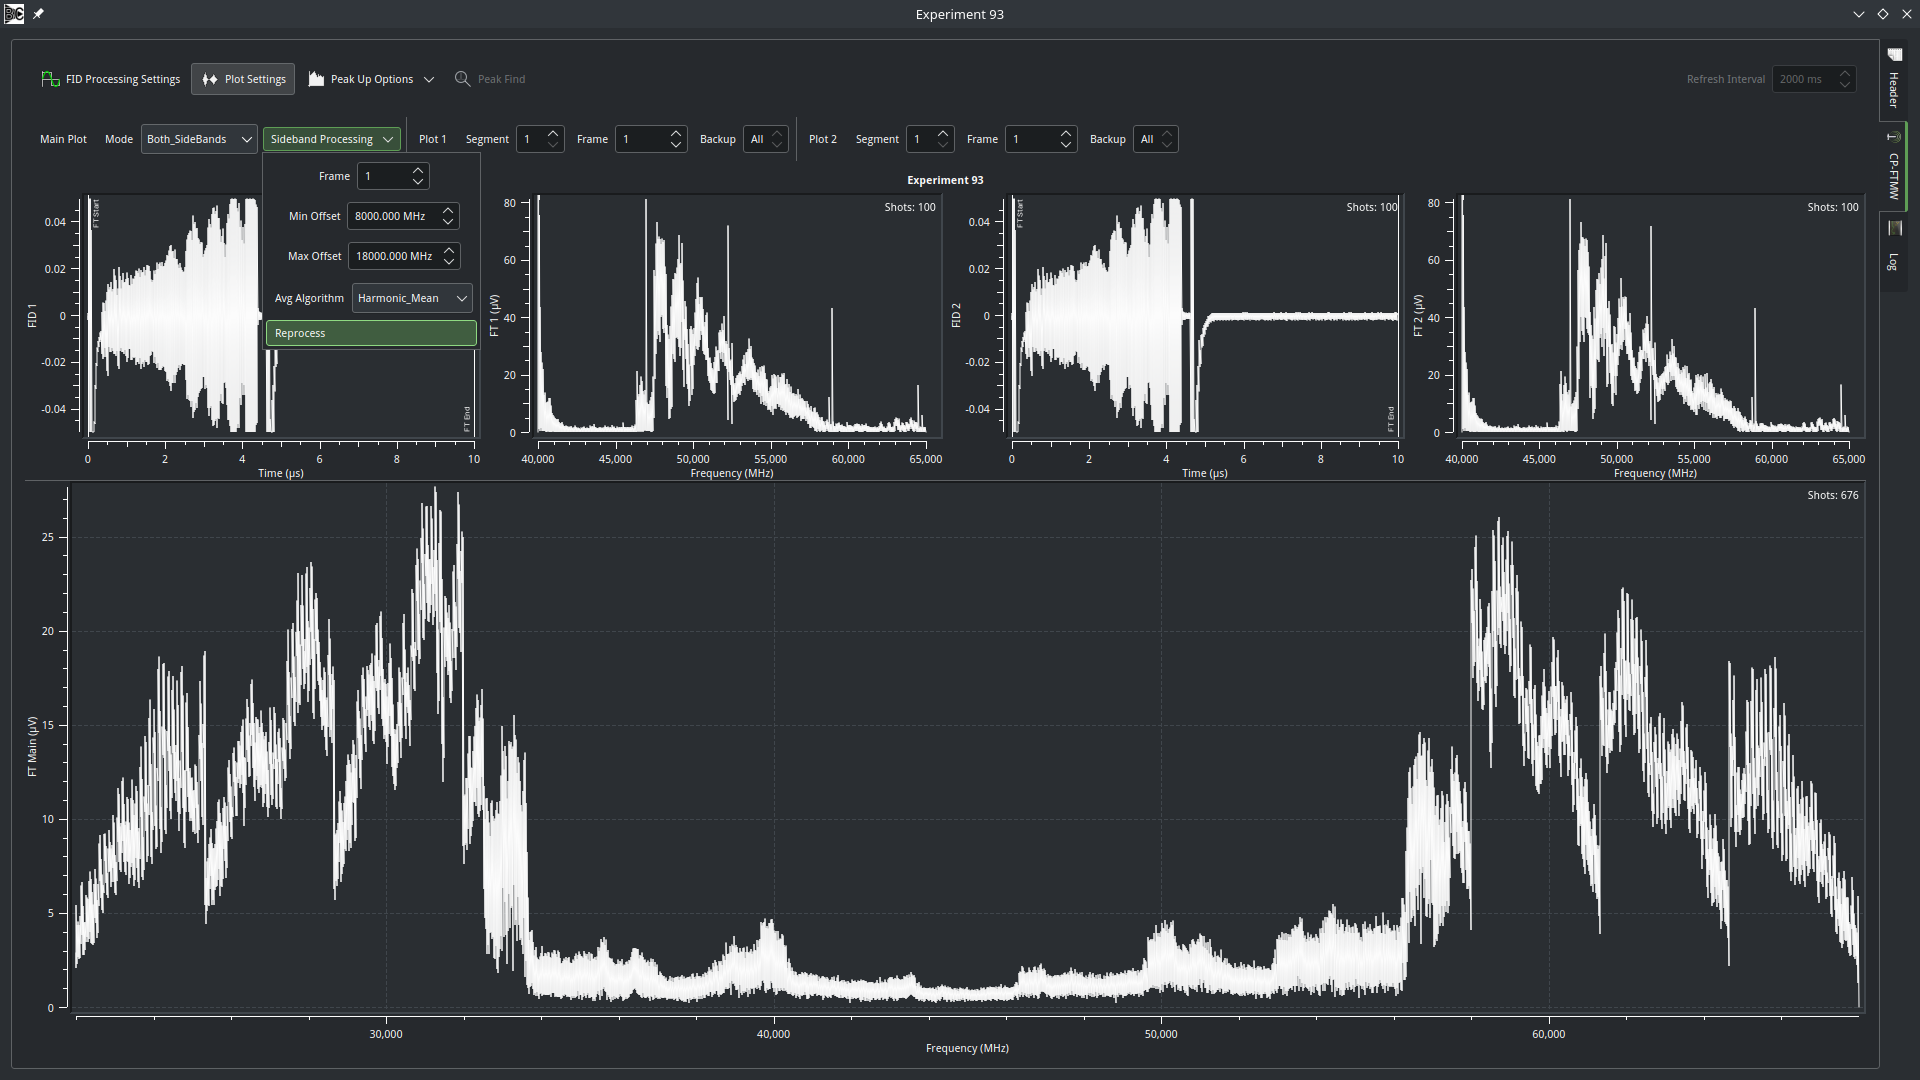
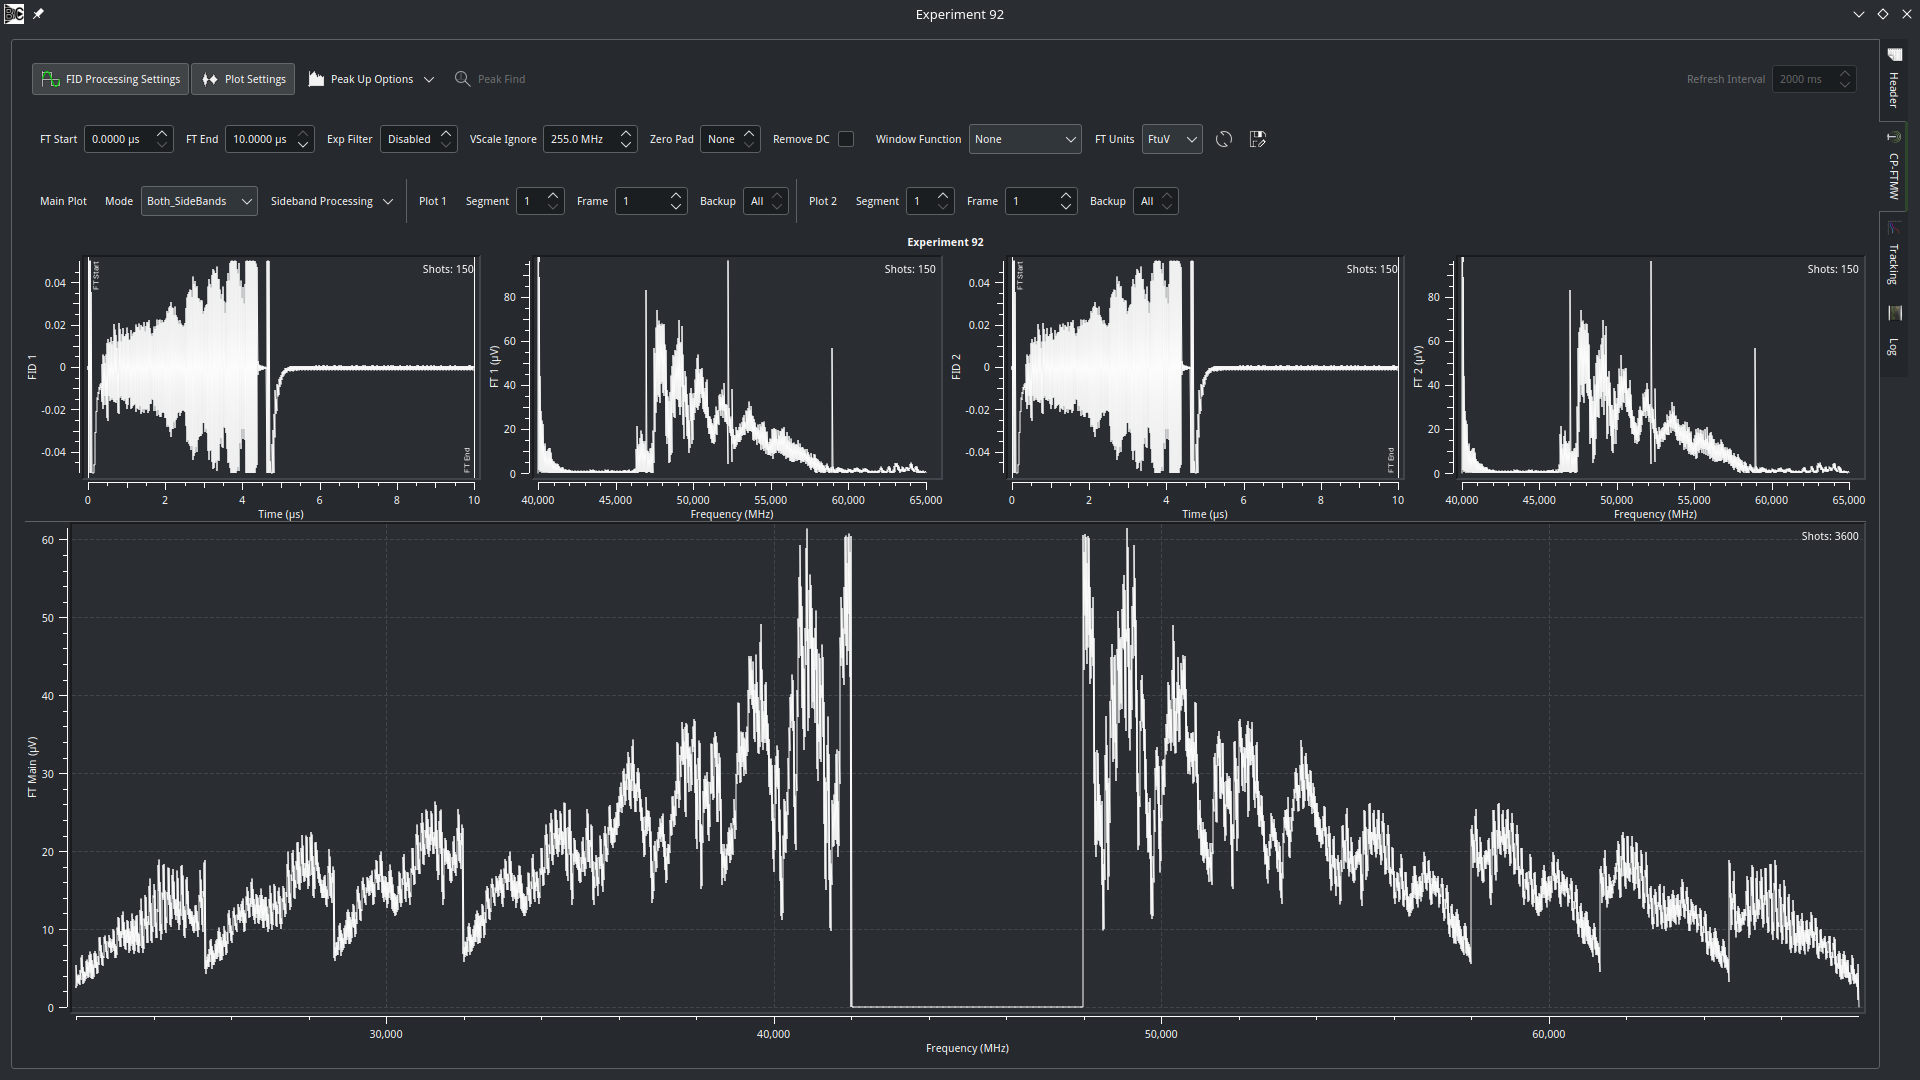
Fix bug in double sideband processing

diff --git a/src/data/analysis/ftworker.cpp b/src/data/analysis/ftworker.cpp
@@ -285,58 +285,76 @@ void FtWorker::processSideband2(const FtWorker::SidebandProcessingData &d, const
                 fid.setSideband(d.sideband);
         }
 
-        auto ft = doFT(fl,settings,d.frame,-1,d.doubleSideband);
+        std::vector<Ft> ftList;
+        auto ft1 = doFT(fl,settings,d.frame,-1,d.doubleSideband);
         auto pf = fl.constFirst().probeFreq();
         if(d.doubleSideband)
-            ft.trim(pf-d.maxOffset,pf+d.maxOffset);
-        else if(d.sideband == RfConfig::UpperSideband)
-            ft.trim(pf+d.minOffset,pf+d.maxOffset);
-        else
-            ft.trim(pf-d.maxOffset,pf-d.minOffset);
-
-
-        auto index = d_loScanData.indexOf(ft.minFreqMHz());
-        auto xx = d_loScanData.relDistance(ft.xAt(0));
-        for(uint i=0; i<(uint)ft.size() && i+index < d_loScanData.ftPoints; i++)
         {
-            //linear interpolation onto total grid, averaging in 0 for outermost points.
-            double yint = ft.at(i);
-            if(xx > 0.0)
-            {
-                if(i == 0)
-                    yint = xx*ft.at(i);
-                else if(i+1 == (uint)ft.size())
-                    yint = ft.at(i)*(1-xx);
-                else
-                    yint = ft.at(i) + (ft.at(i+1)-ft.at(i))*xx;
-            }
-
-            //do average
-            if(d_loScanData.counts.at(i+index) == 0)
-            {
-                d_loScanData.ftData[i+index] = yint;
-                d_loScanData.counts[i+index] = ft.shots();
-            }
-            else
-            {
-                auto s1 = d_loScanData.counts.at(i+index);
-                auto y1 = d_loScanData.ftData.at(i+index);
-                auto s2 = ft.shots();
-                switch(d.dcMethod)
-                {
-                case Harmonic_Mean:
-                    d_loScanData.ftData[i+index] = (s1+s2)/(s1/y1+s2/yint);
-                    break;
-                case Geometric_Mean:
-                    d_loScanData.ftData[i+index] = exp((s1*log(y1) + s2*log(yint))/(s1+s2));
-                    break;
-                }
-
-                d_loScanData.counts[i+index] += s2;
-            }
+            auto ft2 = ft1;
+            ft1.trim(pf-d.maxOffset,pf-d.minOffset);
+            ft2.trim(pf+d.minOffset,pf+d.maxOffset);
+            ftList.push_back(ft1);
+            ftList.push_back(ft2);
+        }
+        else if(d.sideband == RfConfig::UpperSideband)
+        {
+            ft1.trim(pf+d.minOffset,pf+d.maxOffset);
+            ftList.push_back(ft1);
+        }
+        else
+        {
+            ft1.trim(pf-d.maxOffset,pf-d.minOffset);
+            ftList.push_back(ft1);
         }
 
-        d_loScanData.totalShots += ft.shots();
+
+        for(auto const &ft : ftList)
+        {
+            auto index = d_loScanData.indexOf(ft.minFreqMHz());
+            auto xx = d_loScanData.relDistance(ft.xAt(0));
+
+            for(uint i=0; i<(uint)ft.size() && i+index < d_loScanData.ftPoints; i++)
+            {
+                //linear interpolation onto total grid, averaging in 0 for outermost points.
+                double yint = ft.at(i);
+                if(xx > 0.0)
+                {
+                    if(i == 0)
+                        yint = xx*ft.at(i);
+                    else if(i+1 == (uint)ft.size())
+                        yint = ft.at(i)*(1-xx);
+                    else
+                        yint = ft.at(i) + (ft.at(i+1)-ft.at(i))*xx;
+                }
+
+                //do average
+                if(d_loScanData.counts.at(i+index) == 0)
+                {
+                    d_loScanData.ftData[i+index] = yint;
+                    d_loScanData.counts[i+index] = ft.shots();
+                }
+                else
+                {
+                    auto s1 = d_loScanData.counts.at(i+index);
+                    auto y1 = d_loScanData.ftData.at(i+index);
+                    auto s2 = ft.shots();
+                    switch(d.dcMethod)
+                    {
+                    case Harmonic_Mean:
+                        d_loScanData.ftData[i+index] = (s1+s2)/(s1/y1+s2/yint);
+                        break;
+                    case Geometric_Mean:
+                        d_loScanData.ftData[i+index] = exp((s1*log(y1) + s2*log(yint))/(s1+s2));
+                        break;
+                    }
+
+                    d_loScanData.counts[i+index] += s2;
+                }
+            }
+
+            d_loScanData.totalShots += ft.shots();
+
+        }
     }
 
     if(d.currentIndex + 1 >= d.totalFids)
